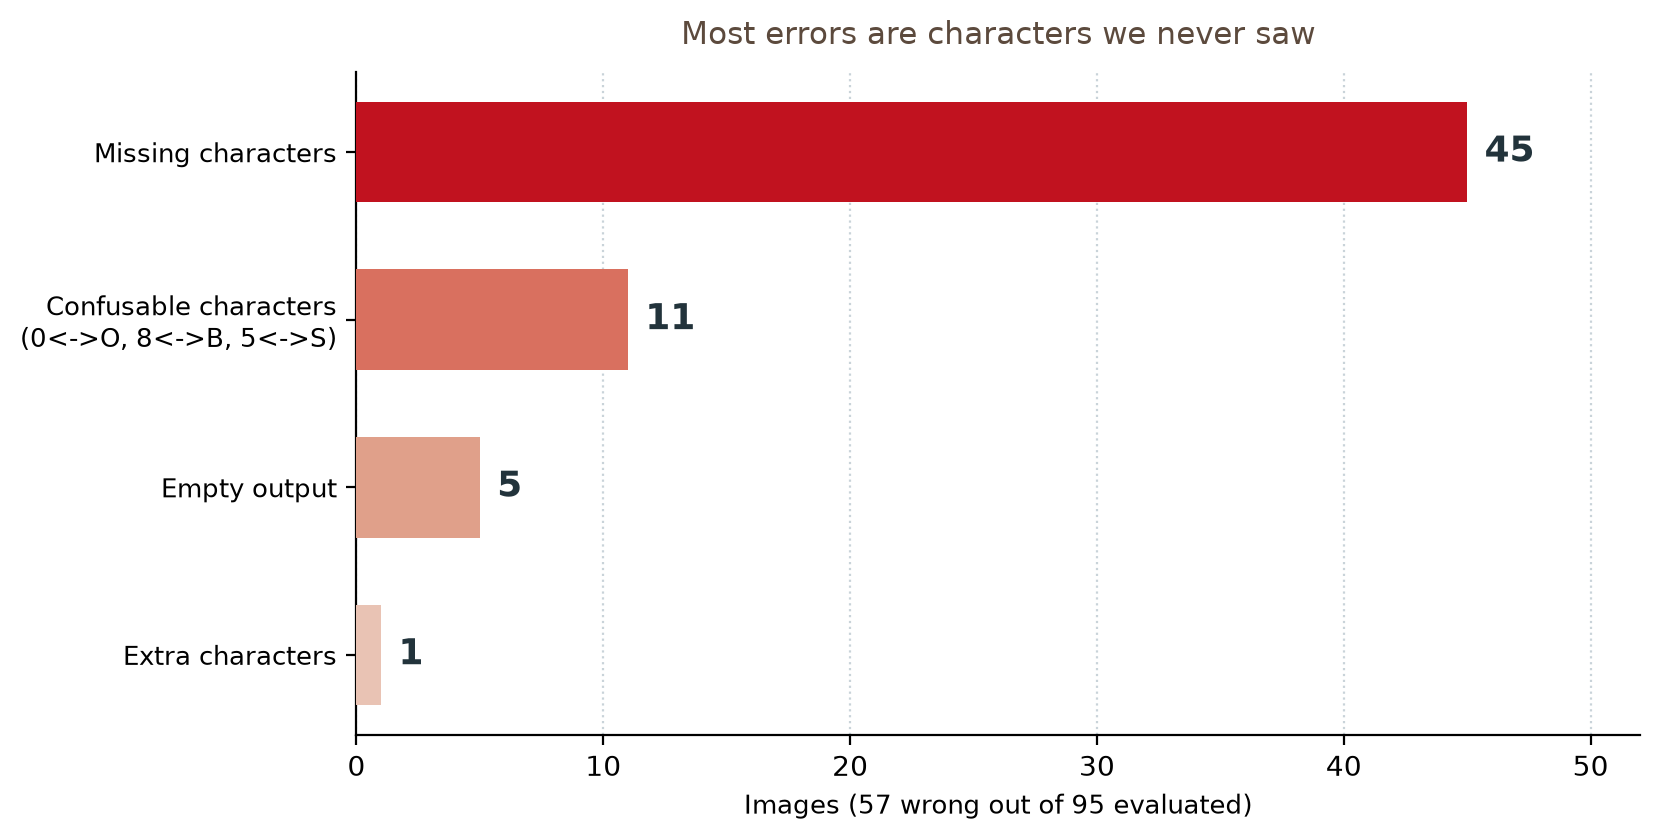
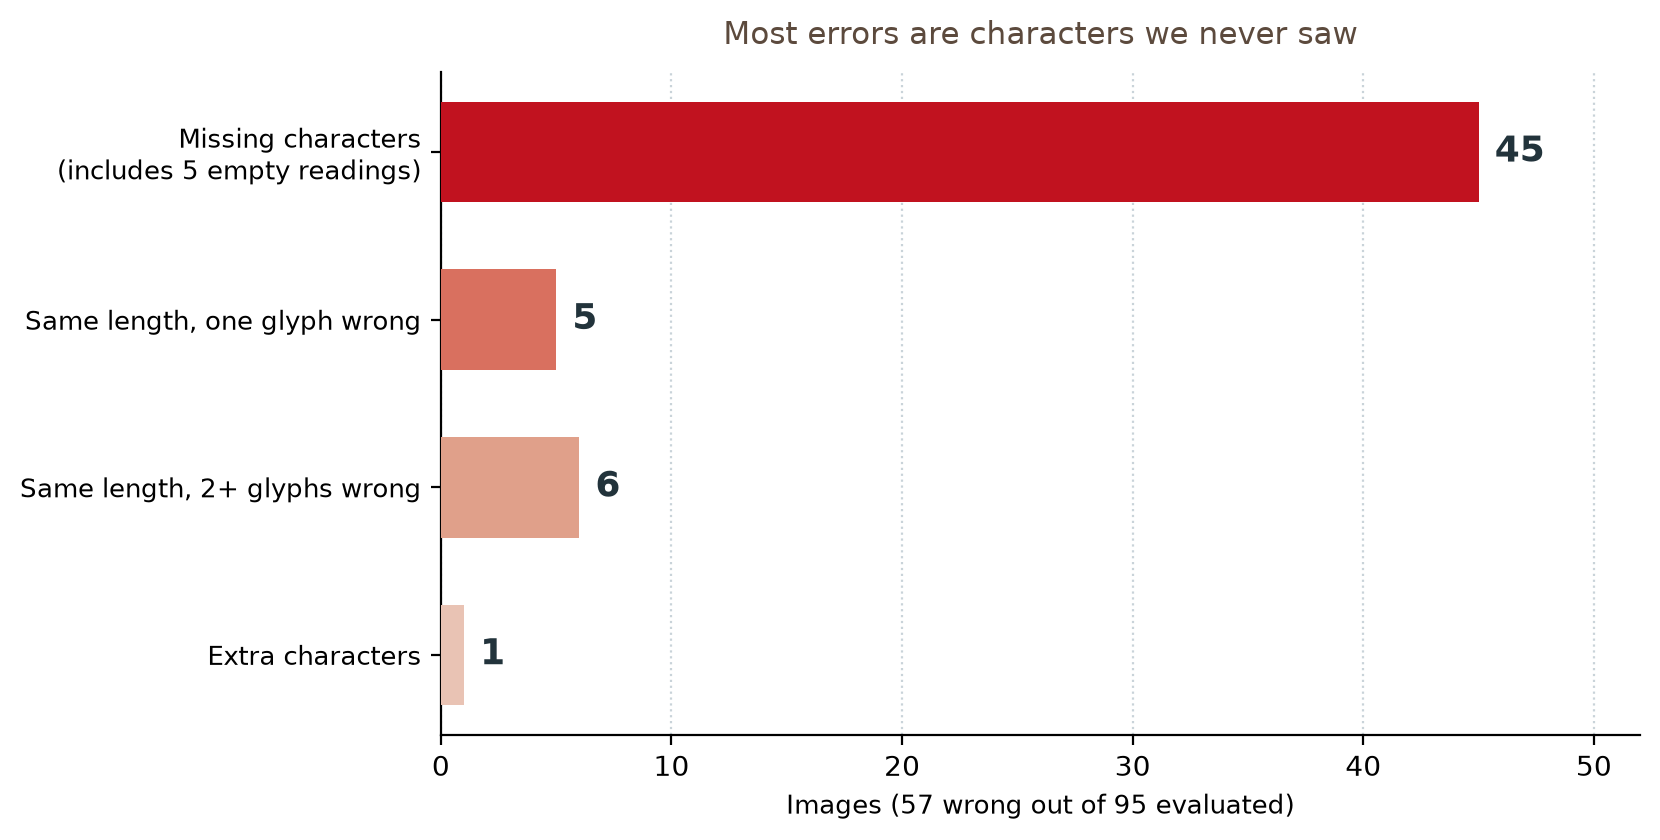
fix(slides): make the error breakdown four mutually exclusive buckets that sum to 57

diff --git a/project/slides/main.md b/project/slides/main.md
@@ -266,7 +266,7 @@ Hong Kong plates use a stroke weight, aspect ratio and surface texture that no a
 
 ![w:620](assets/b-errors.png)
 
-- **45 of 57 wrong plates are missing characters** - never presented to the reader
+- **45 of 57 wrong plates are missing characters** - and 5 of those came back completely empty
+- **The other 12 are same-length confusion** - 5 differ by one glyph (1-6, 3-8, C-G, W-H, Z-L), 6 differ by two or more (960GKF to TER209)
 - **Why** - the crop still holds bumper and bodywork; dark regions merge into the text band
-- **The other 11 are pure confusion** - same length, swapped glyphs: MZ9073 to MZ9078, VC6296 to VG6296
-- **Next step** - a position prior (letters first, digits last) fixes the confusable ones cheaply; the missing ones need a tighter crop, and that is upstream
+- **A position prior is not the fix** - all five one-glyph predictions already pass the HK format check; they need a tighter crop upstream, not more grammar
